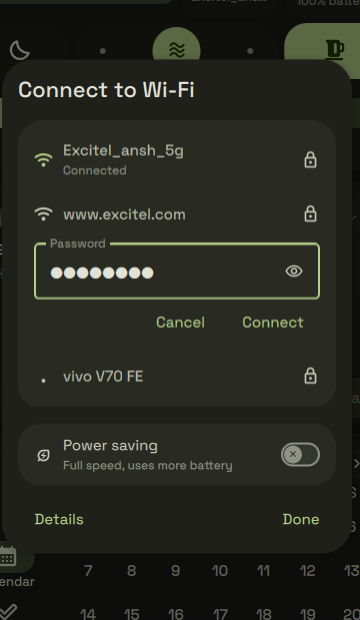
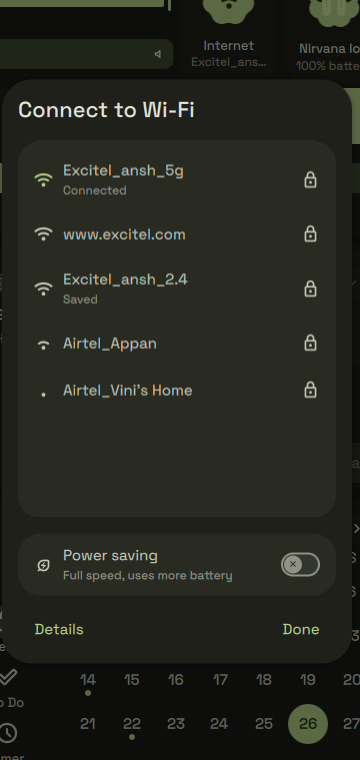
fix(ii-sidebarDashboard): the Wi-Fi dialog holds its height, scaled to the screen
The card fitted its rows, so it re-centred on every scan and whenever a
password field opened, moving the rows out from under the pointer. It is 0.6
of the sidebar now, about the Bluetooth dialog's 600 at 1080p, and the list
scrolls inside it.

diff --git a/dots/.config/quickshell/ii/modules/ii/sidebarDashboard/wifiNetworks/WifiDialog.qml b/dots/.config/quickshell/ii/modules/ii/sidebarDashboard/wifiNetworks/WifiDialog.qml
@@ -10,34 +10,31 @@ import Quickshell.Widgets
 
 WindowDialog {
     id: root
+    // A share of the sidebar rather than the Bluetooth dialog's fixed 600, so it
+    // scales with the screen (about 600 at 1080p). Fixed while open: a card that
+    // followed its rows re-centred on every scan and when a password field opened,
+    // and moved the rows out from under the pointer.
+    backgroundHeight: Math.round(root.height * 0.6)
 
     Component.onCompleted: if (Config.options.networking.wifiPowerSave.enable) Network.fetchWifiPowerSave()
 
     WindowDialogTitle {
-        id: title
         text: Translation.tr("Connect to Wi-Fi")
     }
     StyledIndeterminateProgressBar {
-        id: scanBar
         visible: Network.wifiScanning
         Layout.fillWidth: true
         Layout.bottomMargin: -8
     }
     // ClippingRectangle: plain `clip` only clips to the bounding box, so a
     // row's hover fill would square off the card's corners.
-    // It fits its rows, and scrolls only where the sidebar is too short for them.
-    // It was a fixed 600px dialog, a third of it empty with four networks in range.
     ClippingRectangle {
         Layout.fillWidth: true
-        Layout.preferredHeight: Math.min(
-            Math.max(list.contentHeight + list.topMargin + list.bottomMargin, placeholder.shown ? placeholder.iconWidget.implicitHeight + placeholder.titleWidget.implicitHeight + 4 + root.dialogPadding * 2 : 0),
-            root.height - title.implicitHeight - (scanBar.visible ? scanBar.implicitHeight : 0)
-                - (powerSaveCard.visible ? powerSaveCard.implicitHeight : 0) - buttonRow.implicitHeight - root.dialogPadding * 7)
+        Layout.fillHeight: true
         radius: Appearance.rounding.large
         color: Appearance.colors.colSurfaceContainerHigh
 
         StyledListView {
-            id: list
             anchors.fill: parent
             topMargin: 8
             bottomMargin: 8
@@ -55,7 +52,6 @@ WindowDialog {
         }
 
         PagePlaceholder {
-            id: placeholder
             shown: Network.friendlyWifiNetworks.length === 0
             icon: "wifi_find"
             title: !Network.wifiEnabled ? Translation.tr("Wi-Fi is off")
@@ -68,7 +64,6 @@ WindowDialog {
     // than a settings row dropped in under it. A plain Rectangle: nothing scrolls
     // under these corners, and the row's own mask already rounds its fill.
     Rectangle {
-        id: powerSaveCard
         visible: Config.options.networking.wifiPowerSave.enable
         Layout.fillWidth: true
         implicitHeight: powerSaveRow.implicitHeight
@@ -124,7 +119,6 @@ WindowDialog {
         }
     }
     WindowDialogButtonRow {
-        id: buttonRow
         DialogButton {
             buttonText: Translation.tr("Details")
             onClicked: {

diff --git a/tools/check-wifi-dialog.py b/tools/check-wifi-dialog.py
@@ -47,7 +47,12 @@ assert re.search(r"onClicked:\s*if \(tappable\)", row), "WifiNetworkItem: a tap 
 assert re.search(r"rippleEnabled:\s*tappable", row), "WifiNetworkItem: a row a tap cannot act on must not ripple"
 assert not re.search(r"^\s*enabled:", row.split("contentItem")[0], re.M), \
     "WifiNetworkItem: a busy row must stay at full opacity; 0.4 means disabled"
-assert "backgroundHeight" not in dialog, "WifiDialog: the card fits its rows; a fixed height left a third of it empty"
+# Fixed while open, scaled with the screen: a card that followed its rows re-centred on
+# every scan and when a password field opened, moving the rows under the pointer.
+assert re.search(r"backgroundHeight:\s*Math\.round\(root\.height \* [0-9.]+\)", dialog), \
+    "WifiDialog: the height is a share of the sidebar, not a literal and not the content's"
+assert re.search(r"ClippingRectangle \{\s*Layout\.fillWidth: true\s*Layout\.fillHeight: true", dialog), \
+    "WifiDialog: the list card takes the dialog's spare height"
 assert "StyledListView" in dialog, "WifiDialog: use StyledListView"
 assert "PagePlaceholder" in dialog, "WifiDialog: an empty list needs its empty state"
 

diff --git a/.audit/QUEUE.md b/.audit/QUEUE.md
@@ -107,7 +107,7 @@ fenced the same way the twelve `cw-*` rows were.
 | `ii-sidebarDashboard-quickToggles` | `modules/ii/sidebarDashboard/quickToggles` | sidebarDashboard | 1 | 47 | 4723 | `ipc call sidebarRight open` → top card; pencil for edit mode | done | 2026-09-25 | a repair, not a redesign, since this is DESIGN.md's own tile reference. The grid was 6px off-centre. One tap on a three-way slider overwrote the panel's `interactive` bindings for the session. The Bluetooth icon was grey whenever nothing was connected. Tile motion was on the effects spec, the height animated twice, and the films were at 0.05/0.12. Placed tiles now say a click removes them. `check-quick-toggles.py`. `port-toggles.sh` is stale and would delete six features, see `notes.md` |
 | `ii-sidebarDashboard-todo` | `modules/ii/sidebarDashboard/todo` | sidebarDashboard | 1 | 3 | 367 | `ipc call sidebarRight open` → To Do rail tab | done | 2026-09-25 | Google Tasks side-panel rows: a leading circle, the text, and delete, on one line. They were two lines with 30px square buttons. The FAB, which covered the last row, and the scrim dialog gave way to an always-visible "Add a task" field. The model is keyed, so a tick slides one row out instead of rebuilding them all. `check-todo.py` |
 | `ii-sidebarDashboard-volumeMixer` | `modules/ii/sidebarDashboard/volumeMixer` | sidebarDashboard | 1 | 3 | 233 | `ipc call sidebarRight openDialog AudioOutput` (or `AudioInput`); the overlay's Volume Mixer widget shows the same content | done | 2026-09-26 | devices first, as rows, the one in use in primary. They were chips under a fixed 600px card that held one app row and ~350px of nothing. The dialog fits its content now. "Multiple" is a switch row that shows only with more than one device. Each app row's mute button is a `RippleButton`: it was a bare `MouseArea` over a `Desaturate`, an offscreen pass per row that `check-effect-budget.py` could not see. The one-line empty states replace the cookie placeholder. The media popup's audio pill set `requestVolumeDialog` and nothing read it; it opens the dialog now. `check-volume-dialog.py`. The pill path was not driven live, see `notes.md` |
-| `ii-sidebarDashboard-wifiNetworks` | `modules/ii/sidebarDashboard/wifiNetworks` | sidebarDashboard | 1 | 2 | 181 | `ipc call sidebarRight openDialog Wifi` | done | 2026-09-26 | an unsaved secured network asks for its password *before* connecting; every tap used to run the connect first, which took the adapter off the current network while you typed. A tap on the connected row no longer bounces the link. The password retry threw in both handlers (target nulled before the rerun); one `nmcli dev wifi connect … password` replaces it. Each row has the Bluetooth status line ("Connected", "Saved", "Wrong password", "Couldn't connect"), a busy row stays at full opacity, and the card fits its rows instead of a fixed 600px. Rows are keyed on SSID, so a rescan no longer destroys the field being typed into. `RippleButton` left the ripple stuck when a click turned `rippleEnabled` off. `check-wifi-dialog.py`, mutation-tested. No connection was attempted live, see `notes.md` |
+| `ii-sidebarDashboard-wifiNetworks` | `modules/ii/sidebarDashboard/wifiNetworks` | sidebarDashboard | 1 | 2 | 181 | `ipc call sidebarRight openDialog Wifi` | done | 2026-09-26 | an unsaved secured network asks for its password *before* connecting; every tap used to run the connect first, which took the adapter off the current network while you typed. A tap on the connected row no longer bounces the link. The password retry threw in both handlers (target nulled before the rerun); one `nmcli dev wifi connect … password` replaces it. Each row has the Bluetooth status line ("Connected", "Saved", "Wrong password", "Couldn't connect"), a busy row stays at full opacity, and the card is 0.6 of the sidebar, fixed while open (the owner's call over fitting the rows, which re-centred it under the pointer). Rows are keyed on SSID, so a rescan no longer destroys the field being typed into. `RippleButton` left the ripple stuck when a click turned `rippleEnabled` off. `check-wifi-dialog.py`, mutation-tested. No connection was attempted live, see `notes.md` |
 | `ii-sidebarDashboard-root` | `modules/ii/sidebarDashboard/*.qml` | sidebarDashboard | 1 | 5 | 1019 | `ipc call sidebarRight` | todo | | top-level files only |
 | `ii-sidebarPolicies-aiChat` | `modules/ii/sidebarPolicies/aiChat` | sidebarPolicies | 1 | 8 | 1430 | ? | todo | |  |
 | `ii-sidebarPolicies-anime` | `modules/ii/sidebarPolicies/anime` | sidebarPolicies | 1 | 2 | 465 | ? | todo | |  |

diff --git a/.audit/ii-sidebarDashboard-wifiNetworks/notes.md b/.audit/ii-sidebarDashboard-wifiNetworks/notes.md
@@ -52,11 +52,14 @@ unsaved secured network there now does nothing visible, because it sets `askingP
 and waffle has no field. Before, it also dropped the uplink first. Giving waffle a password
 field is its own row.
 
-**Known, not fixed: the card re-centres.** When the password field opens or closes, the
-card changes height and `WindowDialog` re-centres it, so the rows move under the pointer
-(about 57px at 1080p). That is `WindowDialog`'s centring, shared with every dialog, and
-the hotspot row hit it too. A dialog that grows from a fixed top would fix it; that is
-`cw-dialogs` territory.
+**Height: fixed while open, scaled with the screen — the owner's call.** The first
+version fitted the card to its rows. That re-centred the card on every scan and whenever
+the password field opened or closed, and moved the rows under the pointer (about 57px at
+1080p). The owner asked for a Bluetooth-style static height that follows the screen size.
+It is `root.height * 0.6`, about 600 at 1080p, and the list scrolls inside it (driven
+live: opening the field left the card where it was). The Bluetooth dialog is still a
+literal 600. Bring it across in the cohesion pass if the two should match on other
+screens.
 
 **Live-reload trap, again.** The Write tool replaces a file's inode, and Quickshell's
 watcher then stops seeing that file. An in-place rewrite with *identical* content does not

diff --git a/.audit/ii-sidebarDashboard-wifiNetworks/brief.md b/.audit/ii-sidebarDashboard-wifiNetworks/brief.md
@@ -40,12 +40,14 @@ replaces the bare `ListView`, so a re-sort slides rows rather than cutting them.
   no longer opens a password field on an open network.
 - *Empty*: "Searching for networks" while the scan runs, "No networks found" after it,
   "Wi-Fi is off" when the radio is off. Before, the card was blank.
-- *One network*: the card fits its rows. It was a fixed 600px dialog, and with four
-  networks in range, a third of the card was empty.
+- *One network*: the card keeps its height, as Bluetooth's does. The height is 0.6 of the
+  sidebar rather than a literal 600, so it scales with the screen. A card that fitted its
+  rows was built first and rejected by the owner: it re-centred on every scan and when a
+  password field opened, which moved the rows out from under the pointer.
 
 **Cost.** None. No effects. The `ClippingRectangle` stays the one clip.
 
-**Delete.** The fixed `backgroundHeight: 600`. The trailing "check" and
+**Delete.** The literal `backgroundHeight: 600`. The trailing "check" and
 "settings_ethernet" glyphs, which the status line replaces. `Network.changePassword()` and
 its process: it modified a profile named after the SSID, which misses any profile NM had
 named "SSID 1", and then re-ran the connect with its target already nulled, so the retry
